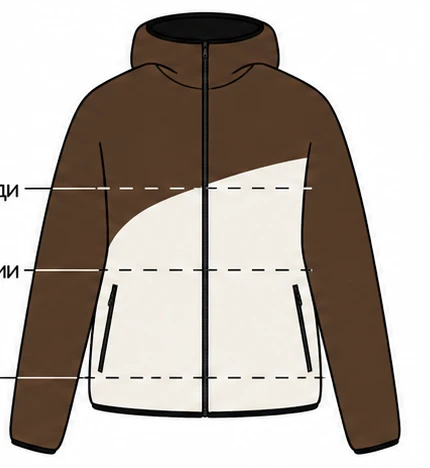
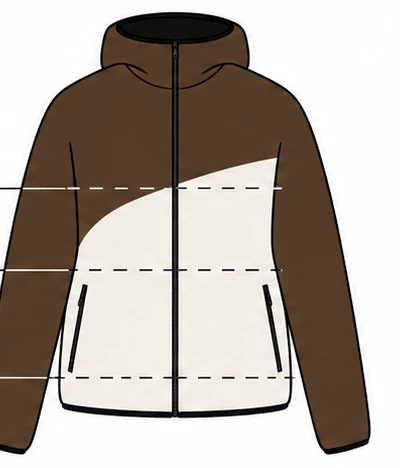
UIII fleece: clean size diagram, order contacts, no links to old one-pager
Claude-Session: https://claude.ai/code/session_018hLzm6shacbbM6kaRT9T12

Changed region(s): [[0.0, 0.0, 0.93, 0.9872], [0.39, 0.0, 0.45, 0.0299]]

diff --git a/clients/uiii/fleece.html b/clients/uiii/fleece.html
@@ -69,6 +69,14 @@ h1.name span{display:block}
 .price p{grid-column:1/-1;font-size:12px;color:var(--ink-soft);margin-top:-4px}
 .price .btn{min-height:44px;padding:0 22px;font-size:14px}
 
+.order{padding:56px var(--pad) 72px;border-top:1.5px solid var(--espresso)}
+.order h2{font-size:clamp(32px,4.4vw,60px);line-height:1;letter-spacing:-.03em}
+.order h2 span{display:block}
+.order p{margin:16px 0 24px;color:var(--ink-soft)}
+.order .links{display:flex;flex-wrap:wrap;gap:12px}
+.btn.ghost-esp{background:transparent;color:var(--espresso);border:1.5px solid var(--espresso)}
+.btn.ghost-esp:hover{background:var(--espresso);color:var(--blue)}
+section[id]{scroll-margin-top:24px}
 /* вкладки */
 .tabs{display:flex;gap:6px;margin-top:40px;overflow-x:auto;scrollbar-width:none;border-bottom:1.5px solid var(--espresso)}
 .tabs::-webkit-scrollbar{display:none}
@@ -104,13 +112,13 @@ th{font-size:12px;font-weight:600;letter-spacing:.06em;text-transform:uppercase;
 td{text-align:center;padding:14px 8px;border-bottom:1px solid rgba(66,44,33,.12)}
 td:first-child{font-weight:700}
 tbody tr:hover{background:rgba(182,221,246,.35)}
-.jacket{position:relative;max-width:360px;justify-self:center;width:100%}
+.jacket{position:relative;max-width:340px;justify-self:center;width:100%;margin-left:110px}
 .jacket img{display:block;width:100%;height:auto}
-.jacket span{position:absolute;left:-4%;transform:translate(-100%,-50%);font-size:13px;color:var(--ink-soft);white-space:nowrap}
+.jacket span{position:absolute;left:0;transform:translate(calc(-100% - 10px),-50%);font-size:13px;color:var(--ink-soft);white-space:nowrap}
 @media (max-width:860px){
   .cols,.size{grid-template-columns:1fr}
   .price{grid-template-columns:1fr}
-  .jacket{max-width:280px;margin-left:96px}
+  .jacket{max-width:260px;margin-left:100px}
 }
 @media (max-width:560px){
   .slide,.slide.wide{flex-basis:86vw}
@@ -123,7 +131,7 @@ tbody tr:hover{background:rgba(182,221,246,.35)}
 <svg width="0" height="0" style="position:absolute" aria-hidden="true"><symbol id="uiii" viewBox="296 439 407 781.5"><path fill="currentColor" d="M703 439H440C356.48 439 296 507.46 296 602C296 696.54 356.48 765 440 765H703V676H446C405.98 676 377 644.71 377 601.5C377 558.29 405.98 527 446 527H703Z"/><rect fill="currentColor" x="315" y="821" width="388" height="90.5"/><rect fill="currentColor" x="315" y="975.5" width="388" height="90.5"/><rect fill="currentColor" x="315" y="1130" width="388" height="90.5"/></symbol></svg>
 <header class="top">
   <a class="mark" href="intro.html" aria-label="UIII — на главную"><svg viewBox="0 0 407 781.5"><use href="#uiii"/></svg></a>
-  <nav class="crumbs" aria-label="Навигация"><a href="v2.html#catalog">Каталог</a> / Одежда</nav>
+  <nav class="crumbs" aria-label="Навигация"><a href="intro.html">Спортивный мерч</a> / Каталог / Одежда</nav>
 </header>
 
 <main>
@@ -163,7 +171,7 @@ tbody tr:hover{background:rgba(182,221,246,.35)}
         <li>от 100 изделий — <b>10 900 ₽/шт.</b></li>
         <li>от 500 изделий — <b>9 900 ₽/шт.</b></li>
       </ul>
-      <a class="btn btn-esp" href="v2.html#contacts">Рассчитать заказ</a>
+      <a class="btn btn-esp" href="#order">Рассчитать заказ</a>
       <p>Стоимость одного изделия зависит от объёма партии. Для расчёта стоимости другого тиража свяжитесь с нами напрямую.</p>
     </section>
 
@@ -239,7 +247,7 @@ tbody tr:hover{background:rgba(182,221,246,.35)}
             </tbody>
           </table>
         </div>
-        <div class="jacket"><img src="img/fleece/size-jacket.webp" alt="Схема замеров: обхват груди, талии и бедер" width="430" height="468" loading="lazy">
+        <div class="jacket"><img src="img/fleece/size-jacket.webp?v=2" alt="Схема замеров: обхват груди, талии и бедер" width="400" height="468" loading="lazy">
           <span style="top:40%">Обхват груди</span><span style="top:57.7%">Обхват талии</span><span style="top:80.6%">Обхват бедер</span></div>
       </div>
     </section>
@@ -253,7 +261,7 @@ tbody tr:hover{background:rgba(182,221,246,.35)}
       </ul>
       <p>Изменения базовой модели рассчитываются отдельно и не входят в указанную стоимость изделия.</p>
       <p>Свяжитесь с нами, чтобы обсудить детали и возможности производства.</p>
-      <a class="btn btn-esp" href="v2.html#contacts">Обсудить идею</a>
+      <a class="btn btn-esp" href="#order">Обсудить идею</a>
     </section>
 
     <section class="panel-box" role="tabpanel" id="p5" aria-labelledby="t5" hidden>
@@ -267,6 +275,15 @@ tbody tr:hover{background:rgba(182,221,246,.35)}
       <p class="sample">Стоимость изготовления пробного образца — <b>20 000 ₽</b>.</p>
     </section>
   </div>
+  <section class="wrap2 order" id="order" aria-label="Рассчитать заказ">
+    <h2><span class="lt">Рассчитаем</span><span class="bk">ваш заказ</span></h2>
+    <p>Напишите тираж, размеры и что нанести — посчитаем стоимость и сроки.</p>
+    <div class="links">
+      <a class="btn btn-esp" href="tel:+79939639843"><svg class="ico" viewBox="0 0 24 24" aria-hidden="true"><path d="M13.832 16.568a1 1 0 0 0 1.213-.303l.355-.465A2 2 0 0 1 17 15h3a2 2 0 0 1 2 2v3a2 2 0 0 1-2 2A18 18 0 0 1 2 4a2 2 0 0 1 2-2h3a2 2 0 0 1 2 2v3a2 2 0 0 1-.8 1.6l-.468.351a1 1 0 0 0-.292 1.233 14 14 0 0 0 6.392 6.384"/></svg>Позвонить</a>
+      <a class="btn ghost-esp" href="mailto:uiiimail@mail.ru"><svg class="ico" viewBox="0 0 24 24" aria-hidden="true"><path d="m22 7-8.991 5.727a2 2 0 0 1-2.009 0L2 7"/><rect x="2" y="4" width="20" height="16" rx="2"/></svg>Написать на почту</a>
+      <a class="btn ghost-esp" href="https://www.instagram.com/uiii.sport" target="_blank" rel="noopener"><svg class="ico" viewBox="0 0 24 24" aria-hidden="true"><rect width="20" height="20" x="2" y="2" rx="5" ry="5"/><path d="M16 11.37A4 4 0 1 1 12.63 8 4 4 0 0 1 16 11.37z"/><line x1="17.5" x2="17.51" y1="6.5" y2="6.5"/></svg>Instagram</a>
+    </div>
+  </section>
 </main>
 
 <footer class="wrap2" style="padding-bottom:32px;font-size:12px;color:var(--ink-soft)"><a href="https://ysddev.com/" target="_blank" rel="noopener" style="color:inherit;text-decoration:none">Разработан с душой студией YSD DEV</a></footer>
